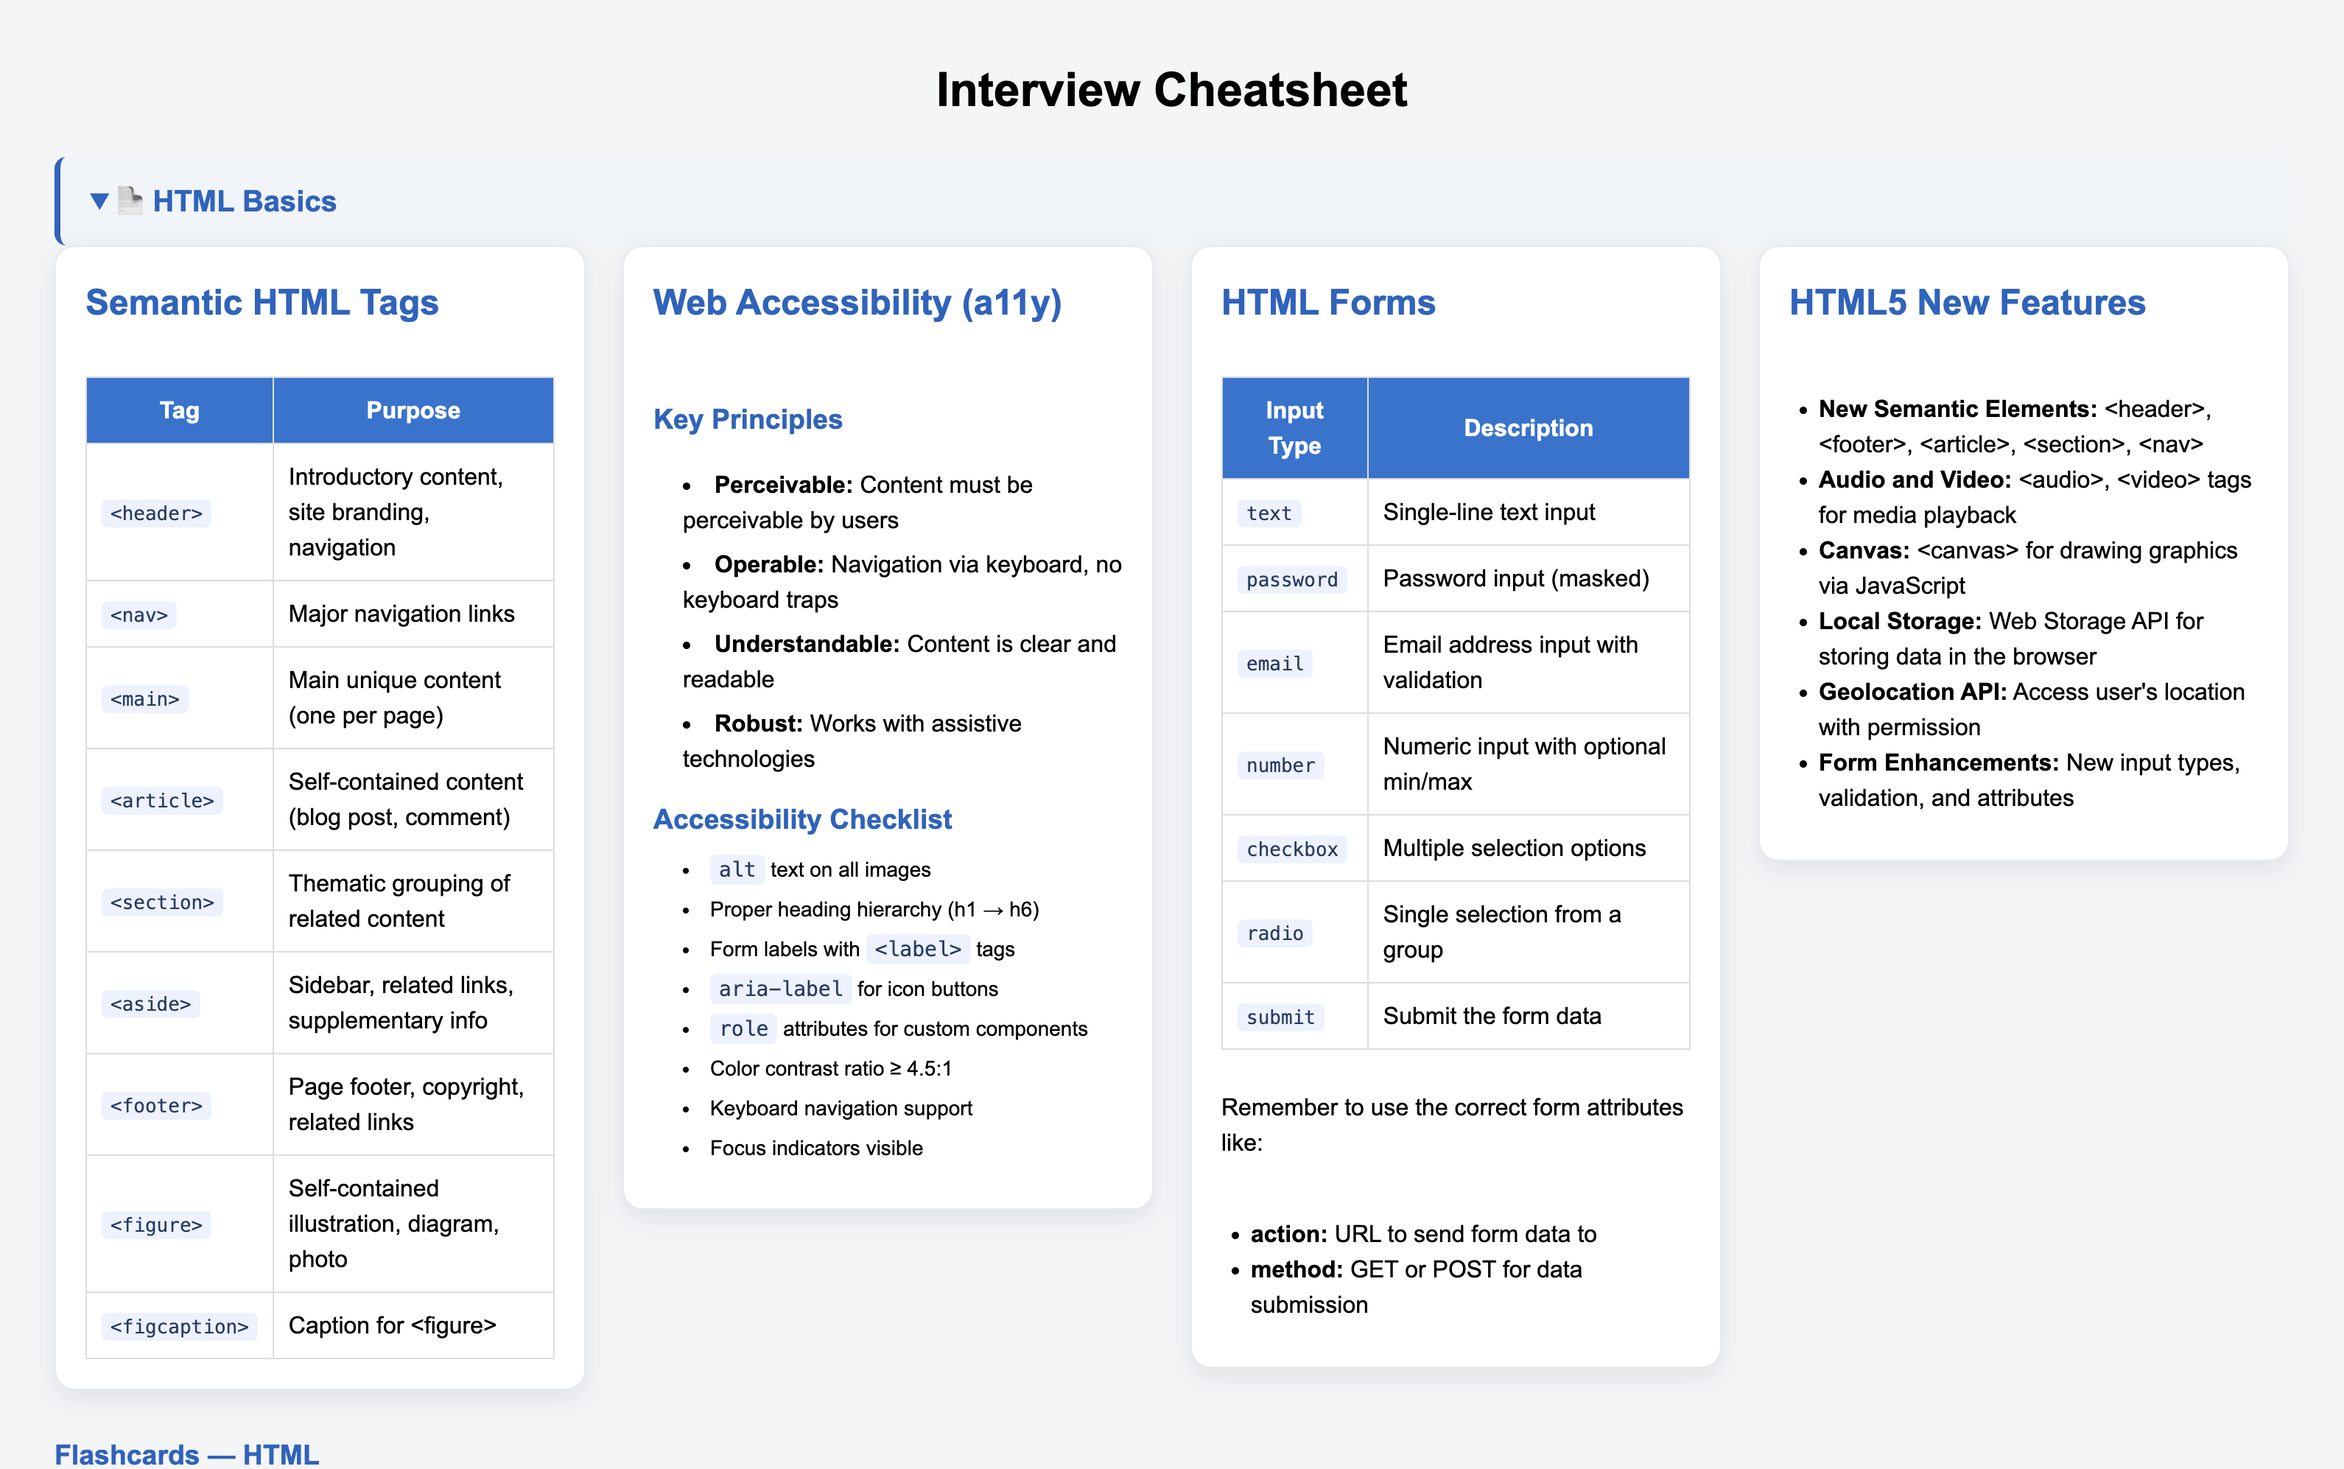
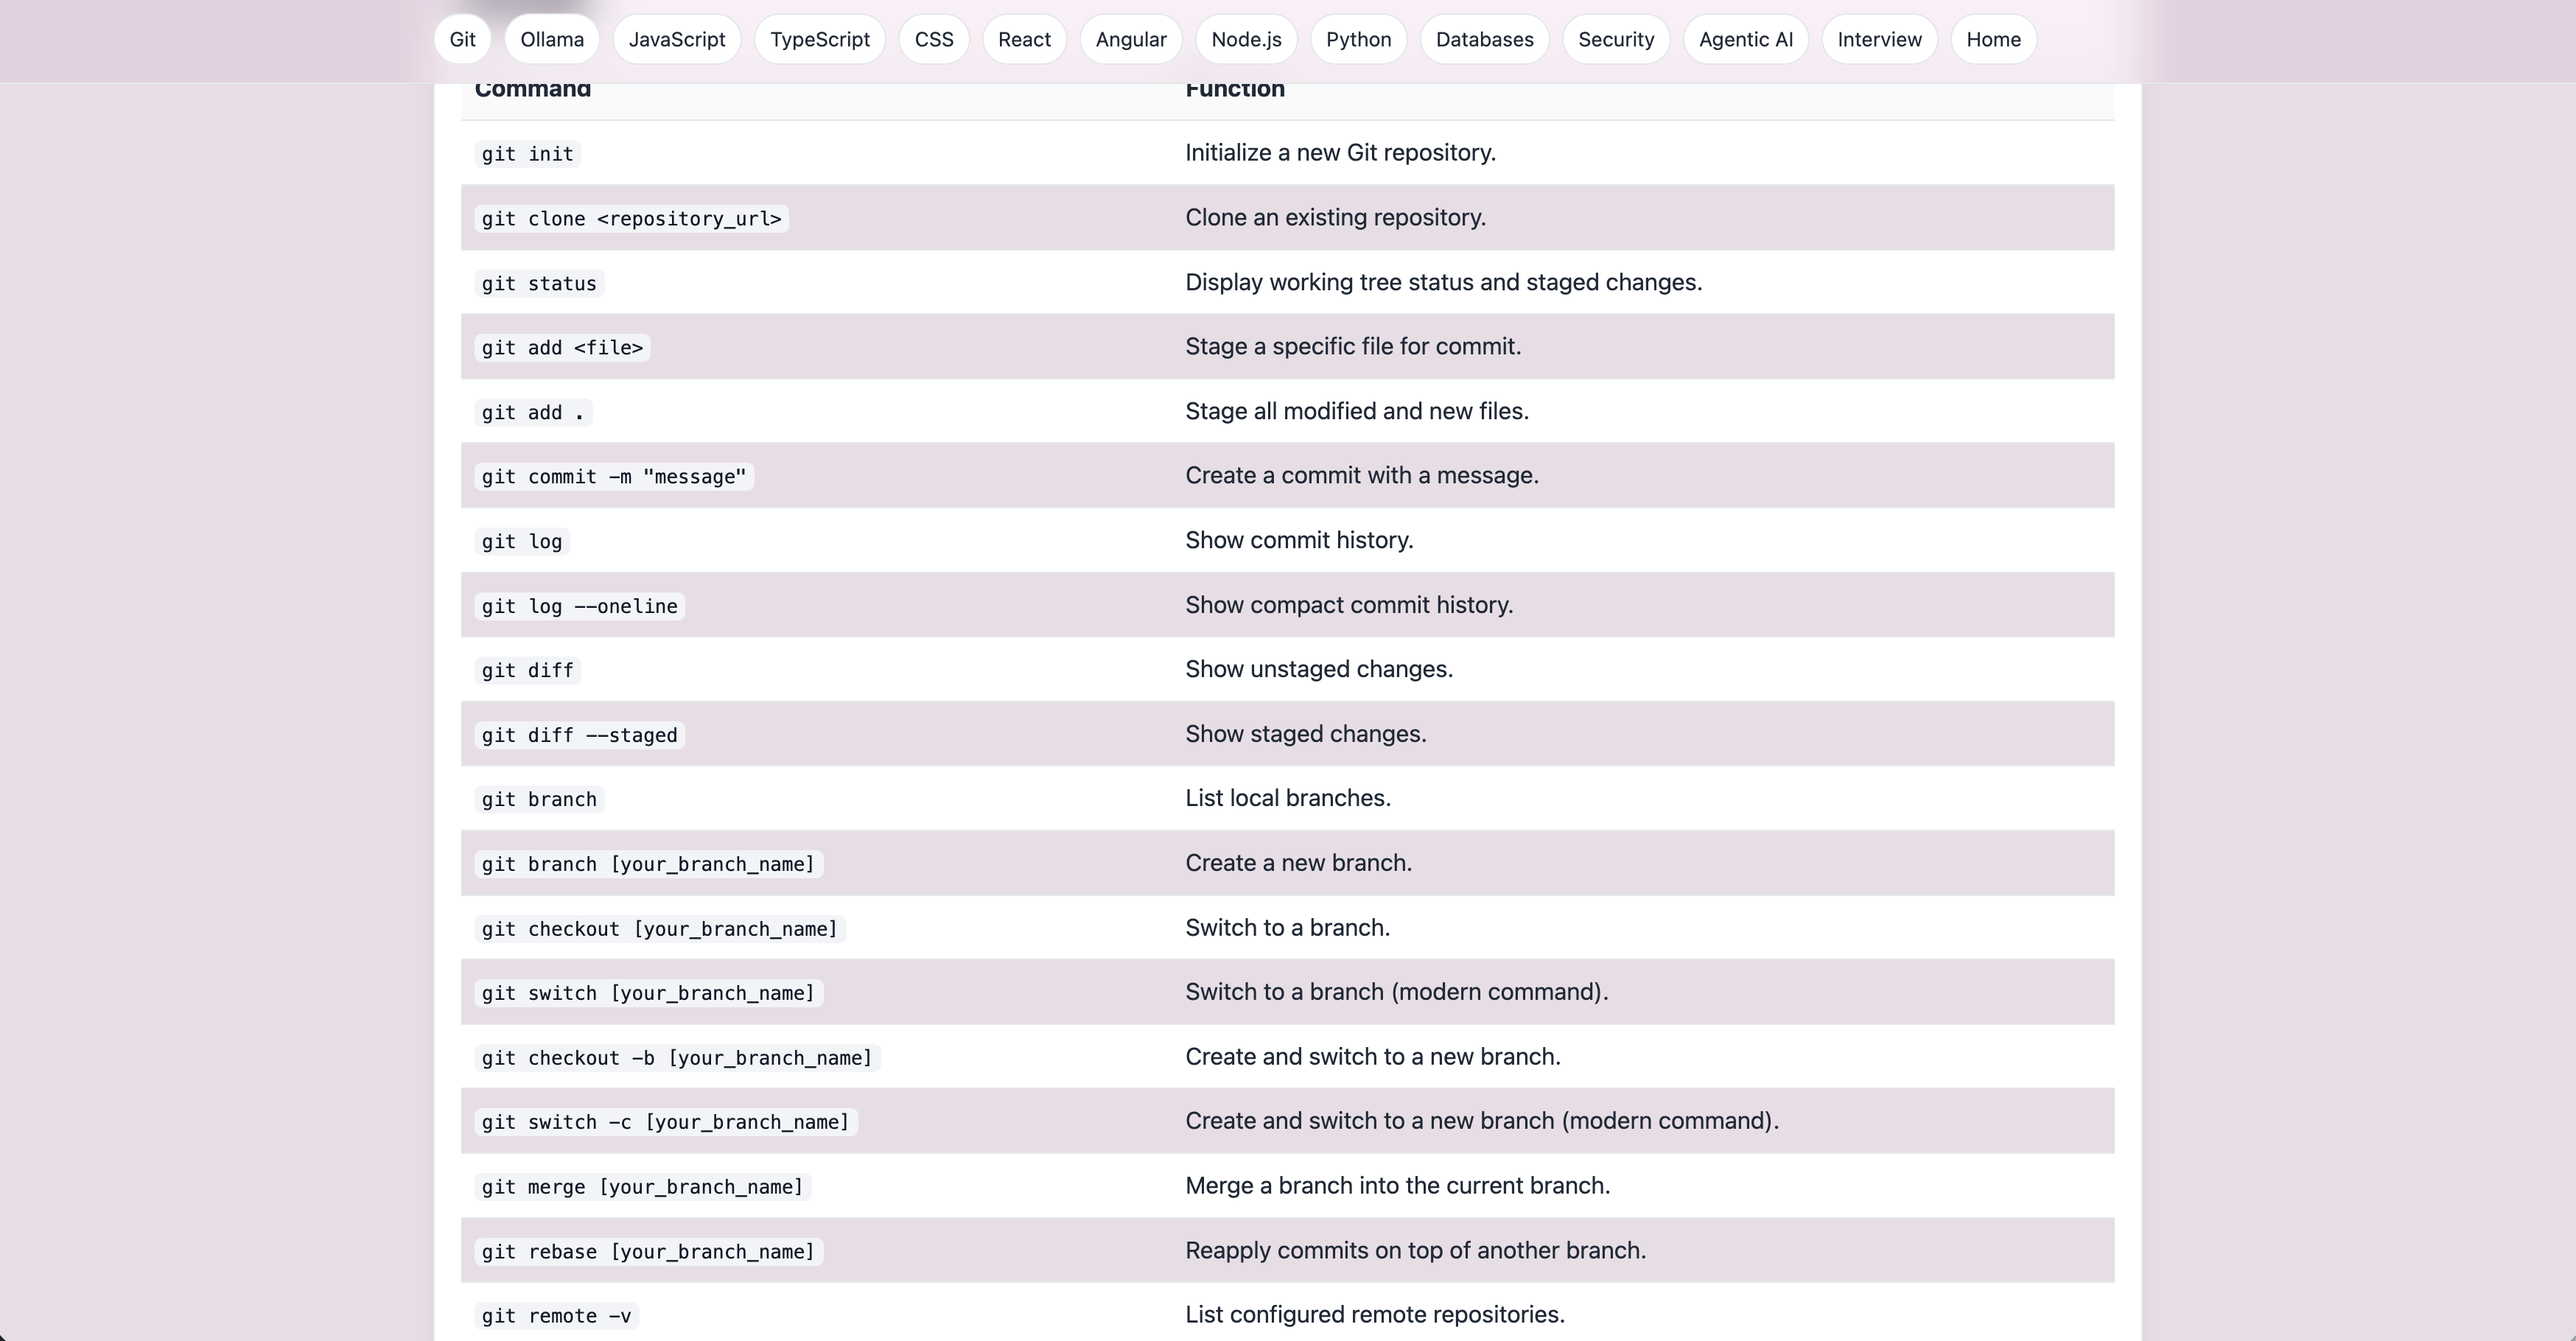
changing cheatsheet png file

diff --git a/index.html b/index.html
@@ -50,8 +50,7 @@
             articles</span></a>
 
         <a class="div tooltip" href="https://cheatsheet.isabellebidou.com/"><img class="photothumbnail"
-            src="/homepageimages/cheatsheet.png" alt="Isabelle Bidou cheatsheet" /><span class="tooltiptext">My dev
-            notes</span></a>
+            src="/homepageimages/cheatsheet.png" alt="Isabelle Bidou cheatsheet" /><span class="tooltiptext">My searchable dev knowledgebase</span></a>
       </div>
 
 
